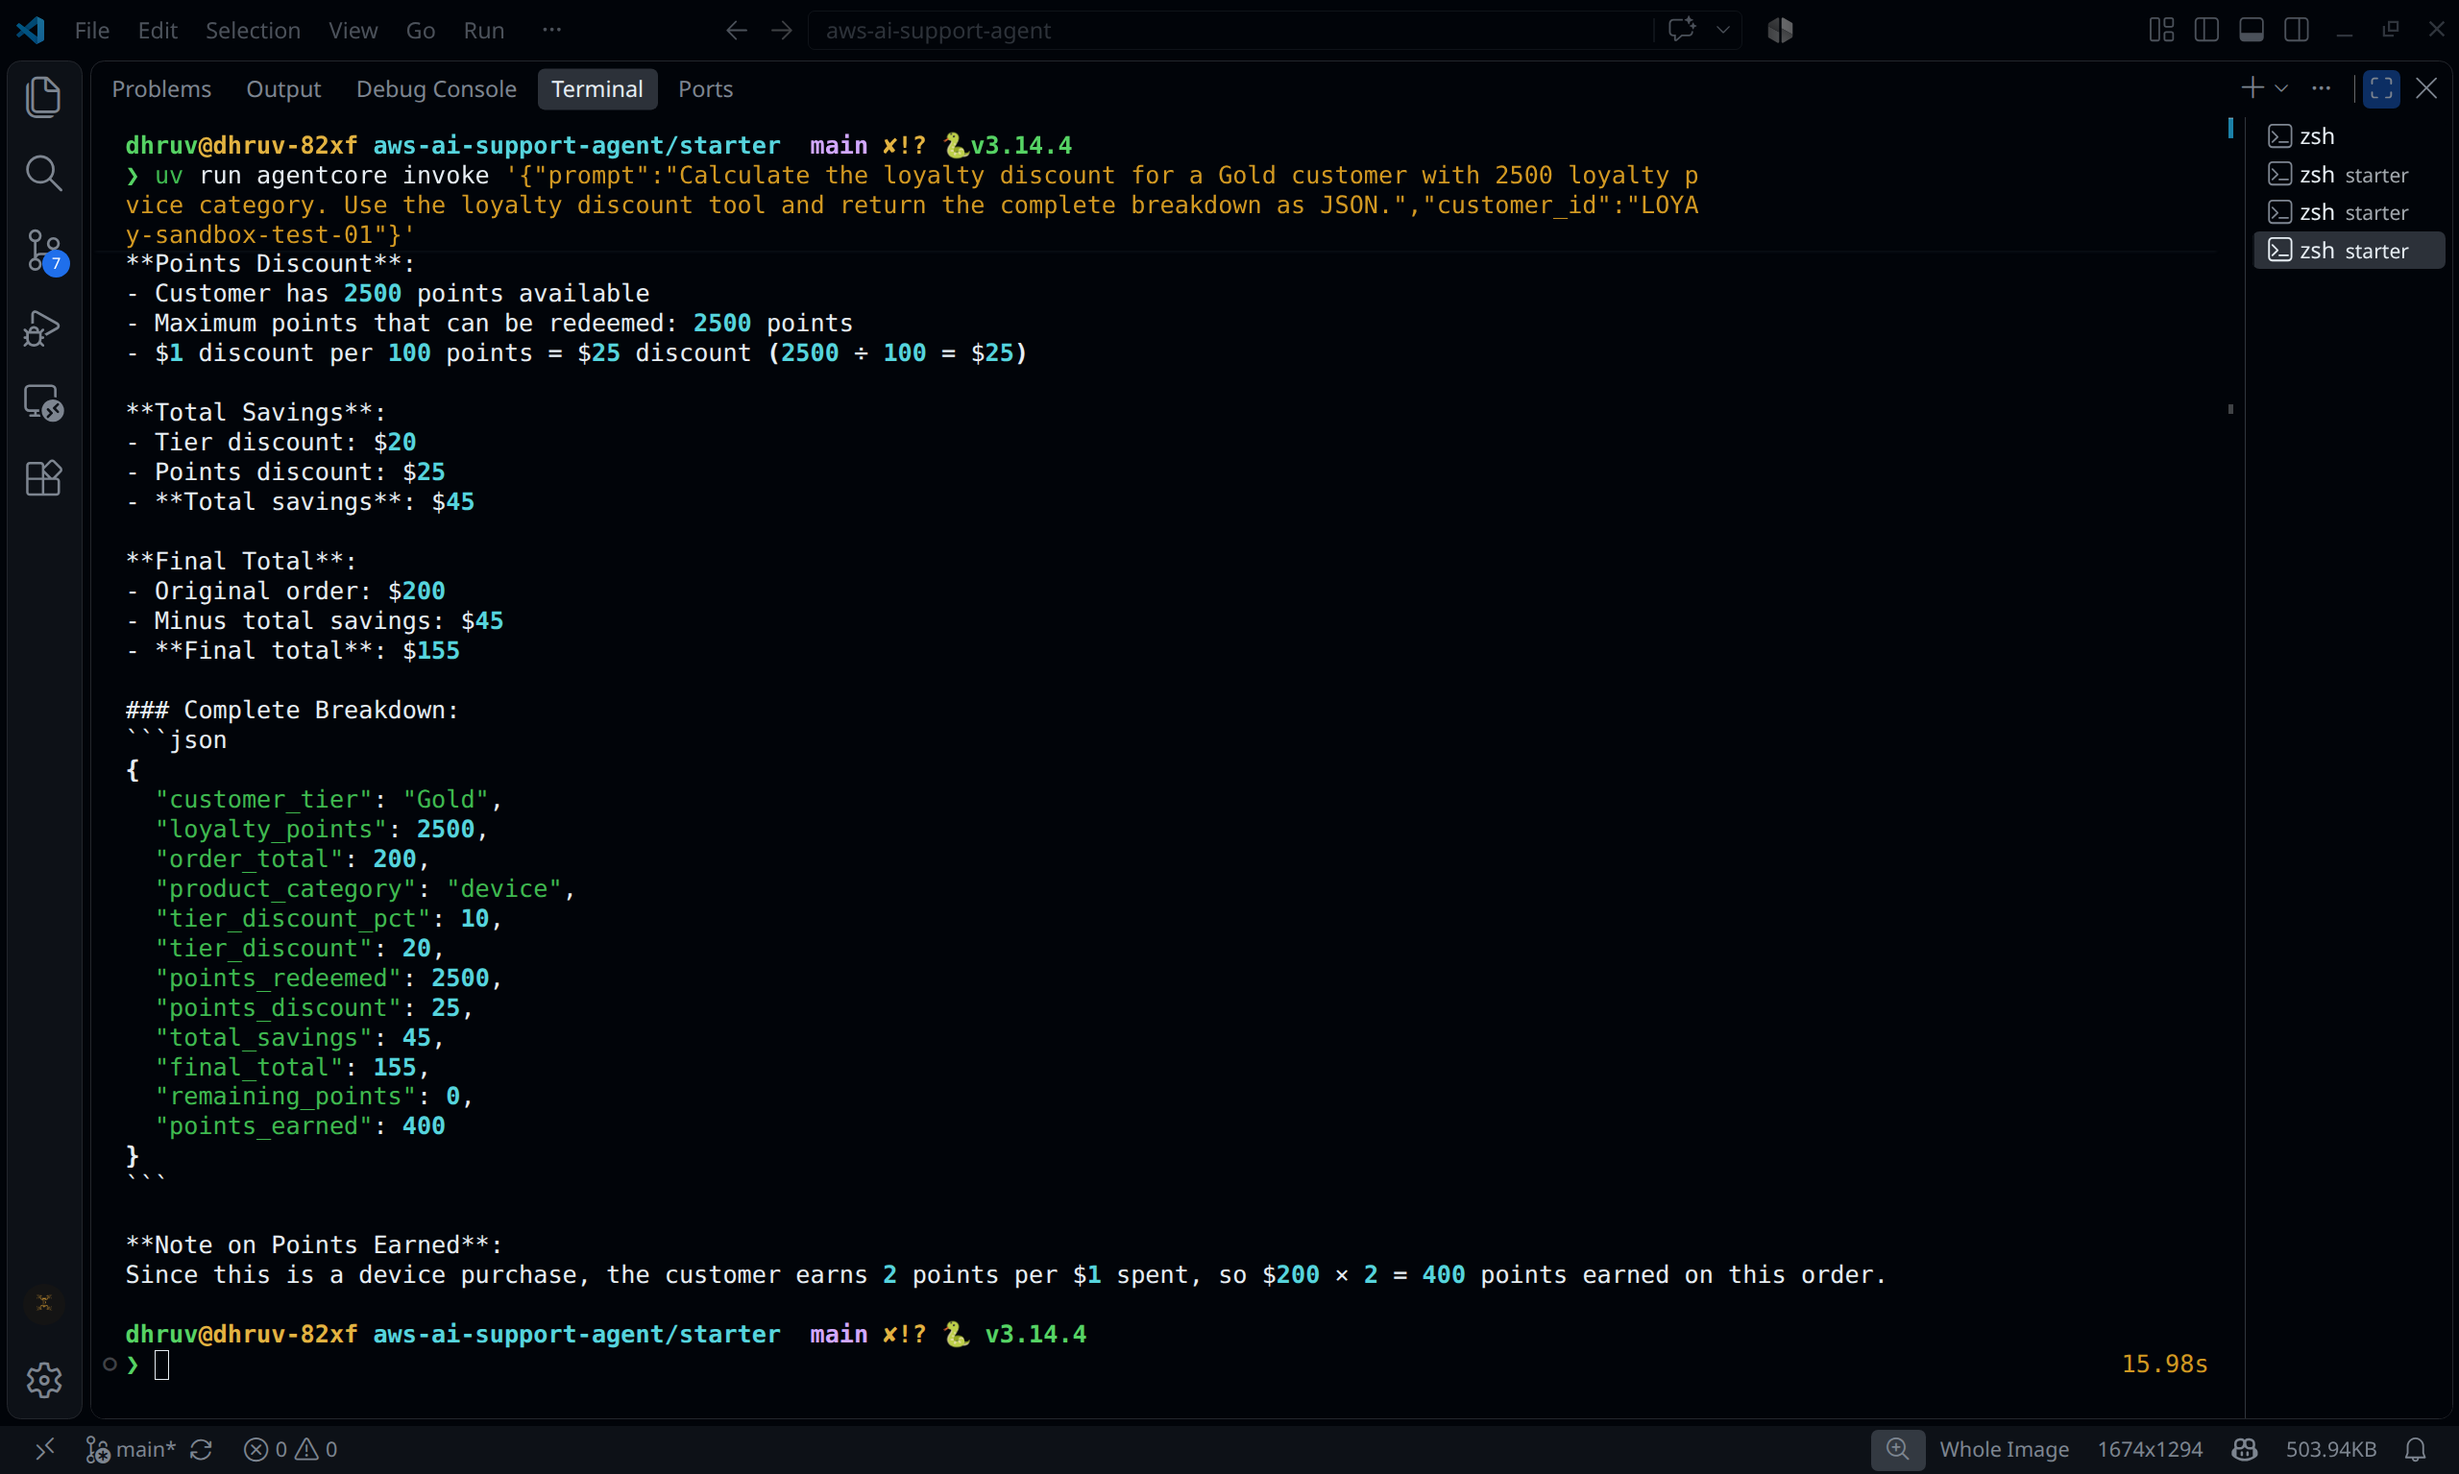
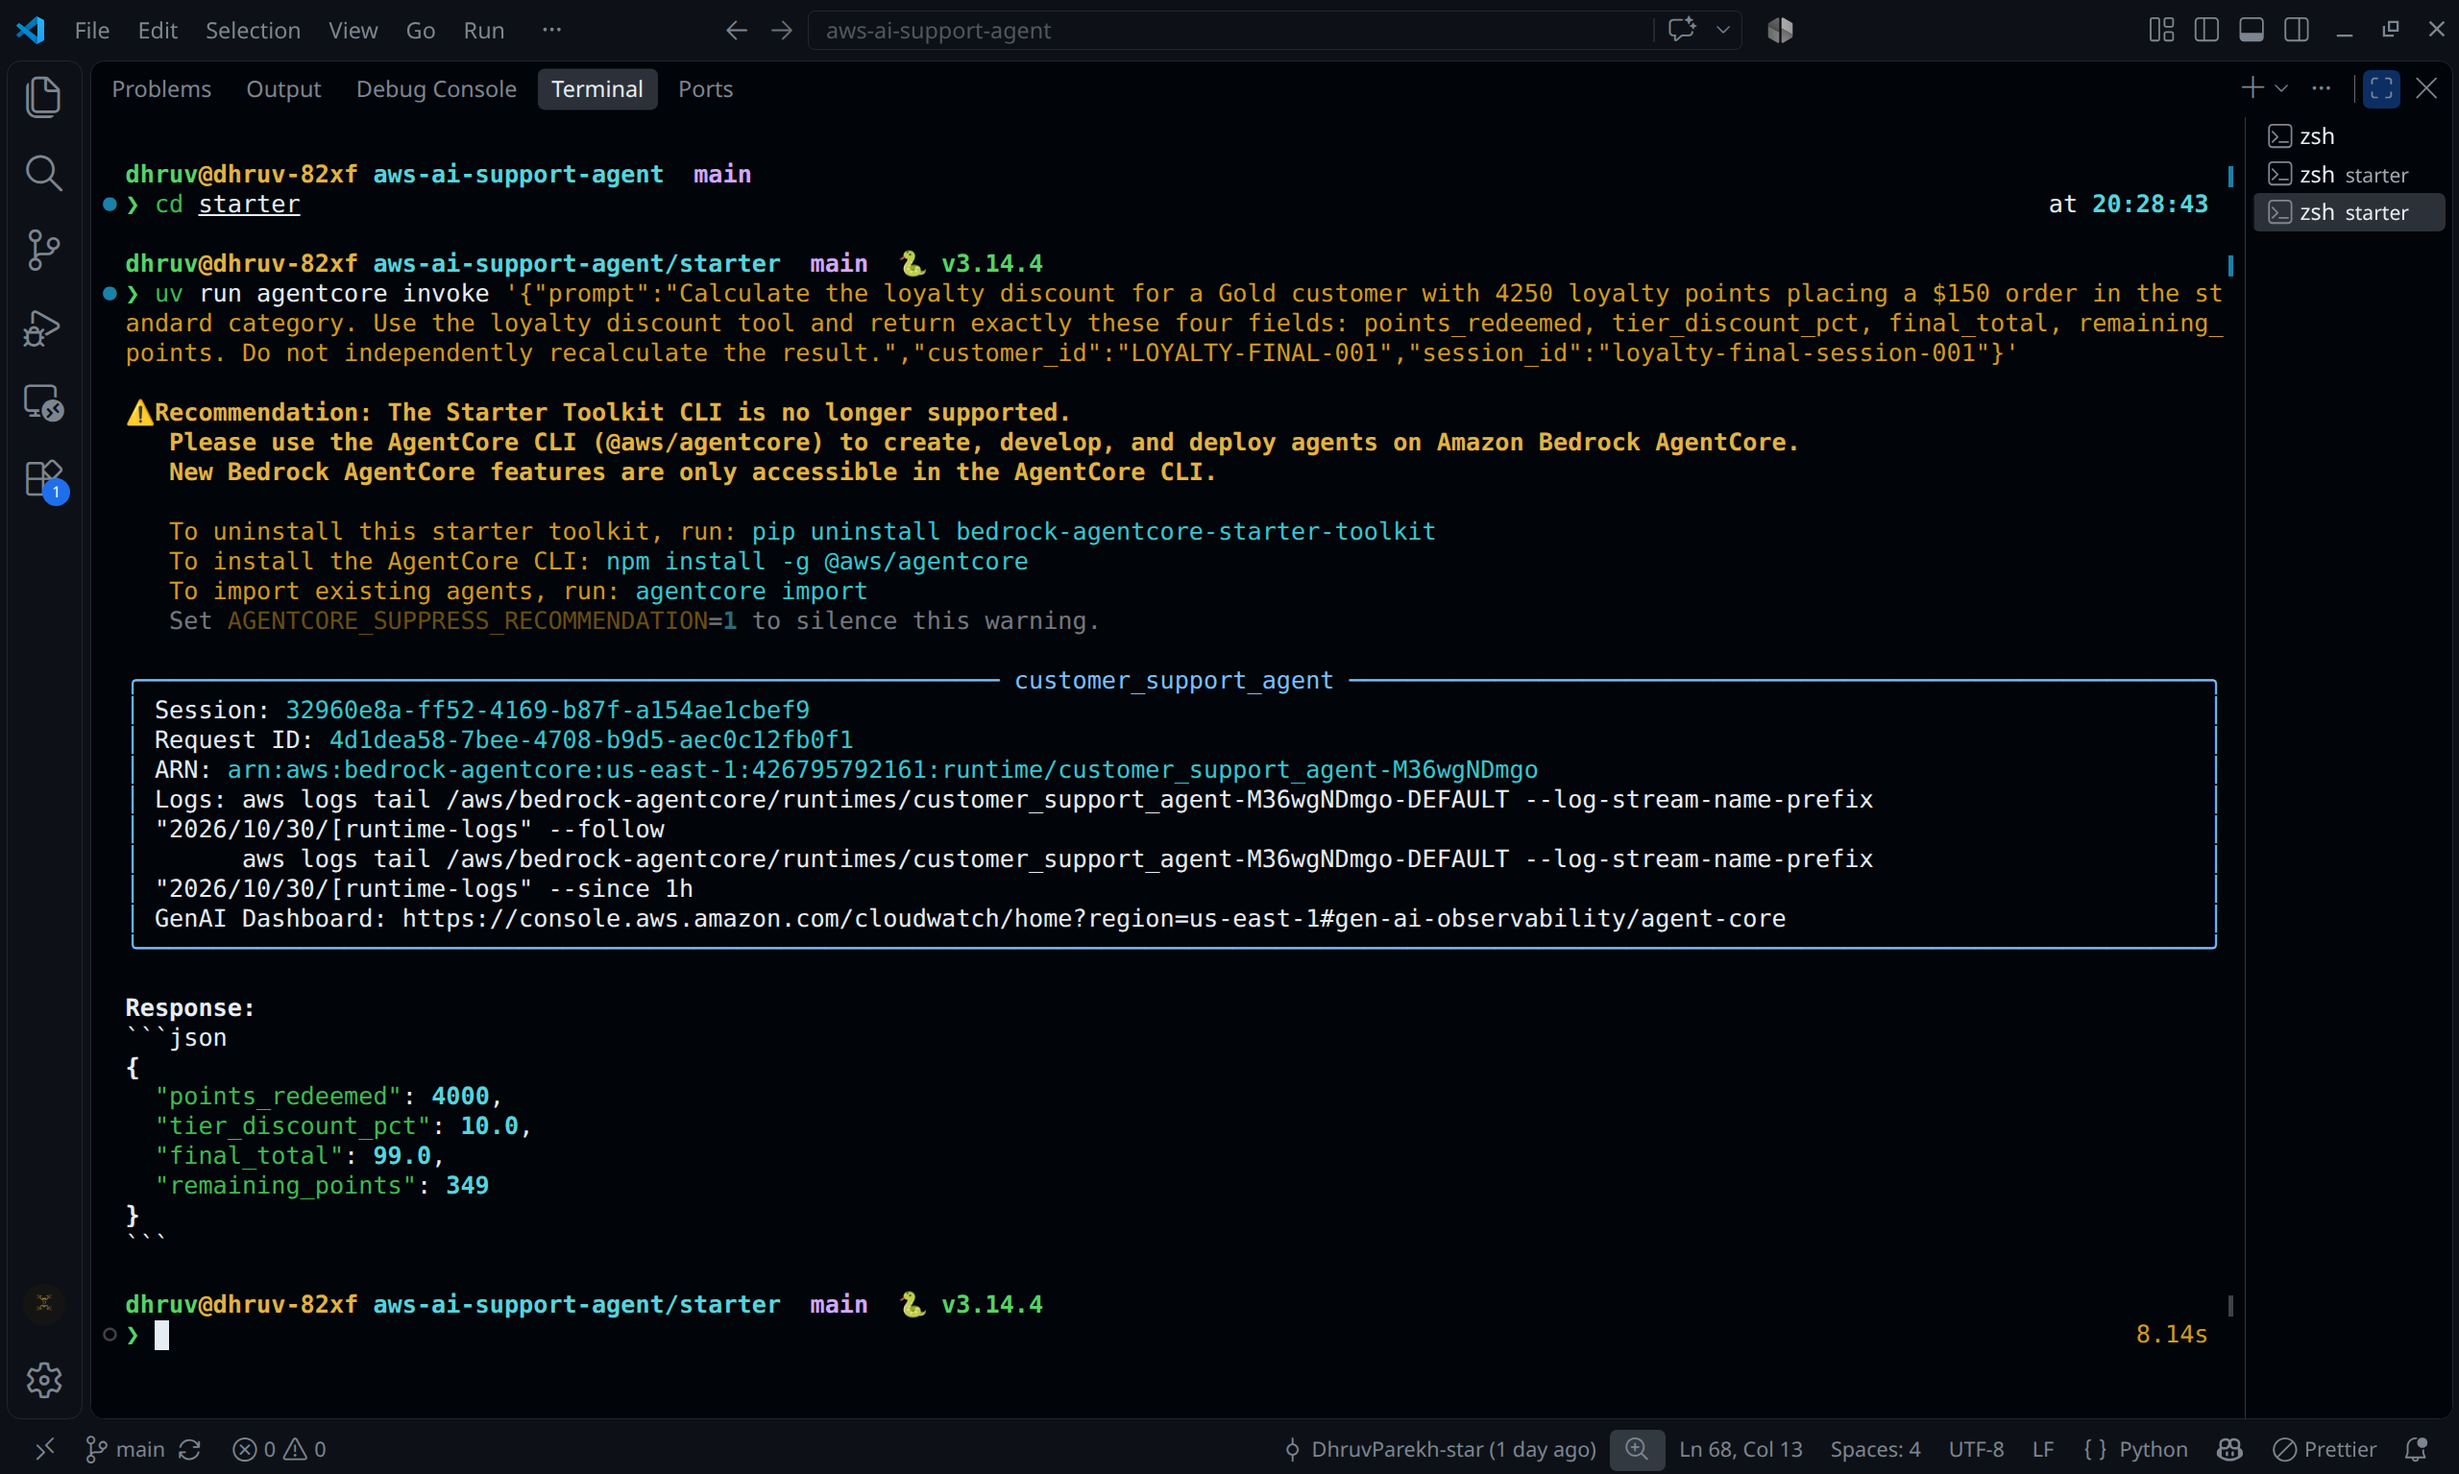
Add final project evaluation evidence

diff --git a/docs/reflection.md b/docs/reflection.md
@@ -1,0 +1,25 @@
+# Project Reflection – AWS AI Customer Support Agent
+
+## 1. Design Decisions
+
+I designed the Customer Support Agent using a modular architecture built around Amazon Bedrock AgentCore. The application uses a Gateway to connect order-tracking and refund-processing tools, allowing the agent to retrieve order information and handle refund requests. Amazon Bedrock Knowledge Bases provides retrieval-augmented generation (RAG) for answering product and policy-related questions. AgentCore Memory enables persistent customer context across separate sessions. The loyalty discount calculation uses AgentCore Code Interpreter, while AgentCore Browser enables access to live web content.
+
+This architecture separates individual capabilities into specialized components, making the application easier to maintain, test, and extend.
+
+## 2. Challenges and Solutions
+
+One significant challenge occurred during runtime initialization. The application encountered an error because the argument parser attempted to process command-line arguments without the required invocation payload. I investigated the CloudWatch runtime logs, identified the entry-point issue, and corrected the application initialization to use the appropriate BedrockAgentCoreApp execution flow.
+
+I also worked through Gateway configuration and tool integration, including configuring API Gateway and Lambda targets and ensuring that the agent could discover and invoke the required tools.
+
+## 3. Testing and Validation
+
+I tested the major application capabilities through separate invocation scenarios. These included order tracking, refund processing, Knowledge Base retrieval, cross-session memory recall, loyalty discount calculation, and browser-based webpage access.
+
+CloudWatch logs were used to inspect runtime execution, Gateway tool discovery, Memory retrieval, and Code Interpreter execution. The loyalty test returned the expected calculation values, and the Memory test demonstrated retrieval of previously stored customer information in a separate session.
+
+## 4. Future Improvements
+
+For production deployment, I would implement stronger authentication and authorization, input validation, and human approval for sensitive refund operations. I would also improve structured logging, automated regression testing, monitoring, and error handling. Additional improvements would include secure configuration management, independent validation of refund amounts, and resource-cost monitoring.
+
+Overall, this project provided practical experience in building, integrating, testing, and evaluating an AI-powered customer support application using AWS services.
